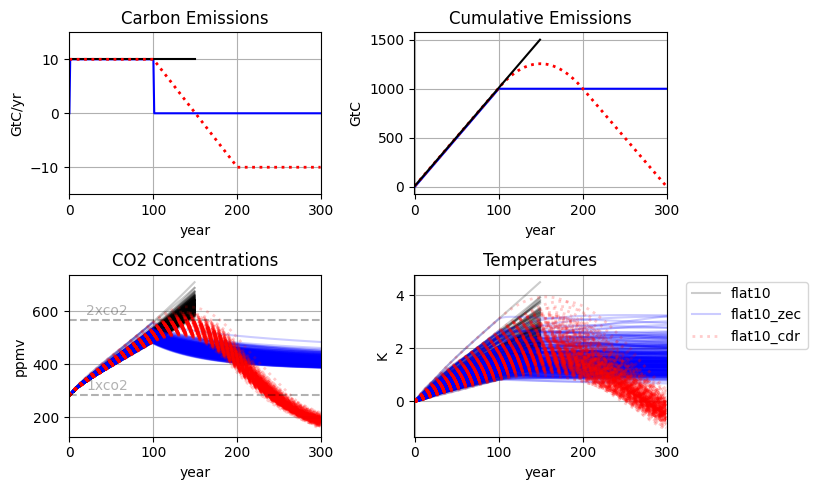
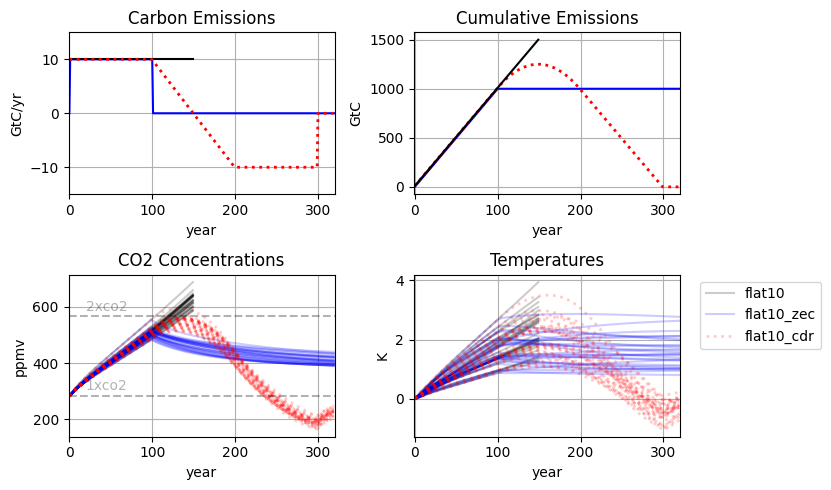
update text

diff --git a/index.html b/index.html
@@ -1,1 +1,1 @@
-<html><head><meta content="text/html; charset=UTF-8" http-equiv="content-type"><style type="text/css">@import url(https://themes.googleusercontent.com/fonts/css?kit=8apCgqRrTD4kFh3_sUrApkKKYS4hv_rnLQzFi6X1UhM);ul.lst-kix_y58jc7646uhq-1{list-style-type:none}ul.lst-kix_y58jc7646uhq-2{list-style-type:none}.lst-kix_y58jc7646uhq-5>li:before{content:"\0025a0   "}.lst-kix_y58jc7646uhq-6>li:before{content:"\0025cf   "}ul.lst-kix_y58jc7646uhq-3{list-style-type:none}ul.lst-kix_y58jc7646uhq-4{list-style-type:none}ul.lst-kix_y58jc7646uhq-5{list-style-type:none}.lst-kix_y58jc7646uhq-4>li:before{content:"\0025cb   "}ul.lst-kix_y58jc7646uhq-6{list-style-type:none}.lst-kix_y58jc7646uhq-8>li:before{content:"\0025a0   "}ul.lst-kix_y58jc7646uhq-7{list-style-type:none}ul.lst-kix_y58jc7646uhq-8{list-style-type:none}.lst-kix_y58jc7646uhq-1>li:before{content:"\0025cb   "}.lst-kix_y58jc7646uhq-2>li:before{content:"\0025a0   "}.lst-kix_mmzhid7z77ue-5>li{counter-increment:lst-ctn-kix_mmzhid7z77ue-5}.lst-kix_y58jc7646uhq-3>li:before{content:"\0025cf   "}ul.lst-kix_y58jc7646uhq-0{list-style-type:none}ul.lst-kix_6ljzh1hbeadp-6{list-style-type:none}ul.lst-kix_6ljzh1hbeadp-7{list-style-type:none}.lst-kix_mmzhid7z77ue-6>li{counter-increment:lst-ctn-kix_mmzhid7z77ue-6}ul.lst-kix_6ljzh1hbeadp-4{list-style-type:none}ul.lst-kix_6ljzh1hbeadp-5{list-style-type:none}ul.lst-kix_6ljzh1hbeadp-2{list-style-type:none}.lst-kix_y58jc7646uhq-0>li:before{content:"\0025cf   "}ul.lst-kix_6ljzh1hbeadp-3{list-style-type:none}ul.lst-kix_6ljzh1hbeadp-0{list-style-type:none}ul.lst-kix_6ljzh1hbeadp-1{list-style-type:none}.lst-kix_kae3z32vkf8l-0>li:before{content:"\0025cf   "}.lst-kix_kae3z32vkf8l-1>li:before{content:"\0025cb   "}.lst-kix_kae3z32vkf8l-2>li:before{content:"\0025a0   "}ul.lst-kix_6ljzh1hbeadp-8{list-style-type:none}.lst-kix_kae3z32vkf8l-3>li:before{content:"\0025cf   "}.lst-kix_kae3z32vkf8l-4>li:before{content:"\0025cb   "}.lst-kix_j3ee6vgrps1y-8>li:before{content:"\0025a0   "}ol.lst-kix_mmzhid7z77ue-7.start{counter-reset:lst-ctn-kix_mmzhid7z77ue-7 0}.lst-kix_mmzhid7z77ue-4>li{counter-increment:lst-ctn-kix_mmzhid7z77ue-4}.lst-kix_j3ee6vgrps1y-7>li:before{content:"\0025cb   "}ul.lst-kix_kae3z32vkf8l-0{list-style-type:none}.lst-kix_kae3z32vkf8l-7>li:before{content:"\0025cb   "}.lst-kix_kae3z32vkf8l-5>li:before{content:"\0025a0   "}.lst-kix_kae3z32vkf8l-6>li:before{content:"\0025cf   "}.lst-kix_mmzhid7z77ue-7>li{counter-increment:lst-ctn-kix_mmzhid7z77ue-7}.lst-kix_j3ee6vgrps1y-1>li:before{content:"\0025cb   "}.lst-kix_j3ee6vgrps1y-2>li:before{content:"\0025a0   "}.lst-kix_j3ee6vgrps1y-3>li:before{content:"\0025cf   "}ul.lst-kix_kae3z32vkf8l-2{list-style-type:none}.lst-kix_j3ee6vgrps1y-5>li:before{content:"\0025a0   "}ul.lst-kix_kae3z32vkf8l-1{list-style-type:none}.lst-kix_kae3z32vkf8l-8>li:before{content:"\0025a0   "}ul.lst-kix_kae3z32vkf8l-4{list-style-type:none}.lst-kix_j3ee6vgrps1y-4>li:before{content:"\0025cb   "}.lst-kix_j3ee6vgrps1y-6>li:before{content:"\0025cf   "}ul.lst-kix_kae3z32vkf8l-3{list-style-type:none}ul.lst-kix_kae3z32vkf8l-6{list-style-type:none}ul.lst-kix_kae3z32vkf8l-5{list-style-type:none}ul.lst-kix_kae3z32vkf8l-8{list-style-type:none}ul.lst-kix_kae3z32vkf8l-7{list-style-type:none}ul.lst-kix_o4ducqhc1uk8-1{list-style-type:none}ul.lst-kix_o4ducqhc1uk8-2{list-style-type:none}ul.lst-kix_o4ducqhc1uk8-3{list-style-type:none}ul.lst-kix_o4ducqhc1uk8-4{list-style-type:none}ul.lst-kix_o4ducqhc1uk8-5{list-style-type:none}ol.lst-kix_mmzhid7z77ue-1.start{counter-reset:lst-ctn-kix_mmzhid7z77ue-1 0}ul.lst-kix_o4ducqhc1uk8-6{list-style-type:none}ul.lst-kix_o4ducqhc1uk8-7{list-style-type:none}ul.lst-kix_o4ducqhc1uk8-8{list-style-type:none}ol.lst-kix_mmzhid7z77ue-8.start{counter-reset:lst-ctn-kix_mmzhid7z77ue-8 0}.lst-kix_61xg01pbauvu-0>li:before{content:"\0025cf   "}.lst-kix_61xg01pbauvu-1>li:before{content:"\0025cb   "}.lst-kix_61xg01pbauvu-2>li:before{content:"\0025a0   "}.lst-kix_61xg01pbauvu-3>li:before{content:"\0025cf   "}.lst-kix_61xg01pbauvu-4>li:before{content:"\0025cb   "}.lst-kix_yrp2nua4jaon-5>li:before{content:"-  "}.lst-kix_mmzhid7z77ue-3>li{counter-increment:lst-ctn-kix_mmzhid7z77ue-3}ul.lst-kix_o4ducqhc1uk8-0{list-style-type:none}.lst-kix_61xg01pbauvu-7>li:before{content:"\0025cb   "}.lst-kix_61xg01pbauvu-8>li:before{content:"\0025a0   "}ul.lst-kix_yrp2nua4jaon-0{list-style-type:none}.lst-kix_o4ducqhc1uk8-6>li:before{content:"-  "}.lst-kix_o4ducqhc1uk8-8>li:before{content:"-  "}ul.lst-kix_yrp2nua4jaon-1{list-style-type:none}ul.lst-kix_yrp2nua4jaon-2{list-style-type:none}ul.lst-kix_yrp2nua4jaon-3{list-style-type:none}.lst-kix_yrp2nua4jaon-4>li:before{content:"-  "}.lst-kix_61xg01pbauvu-5>li:before{content:"\0025a0   "}.lst-kix_61xg01pbauvu-6>li:before{content:"\0025cf   "}ul.lst-kix_yrp2nua4jaon-4{list-style-type:none}.lst-kix_o4ducqhc1uk8-5>li:before{content:"-  "}ul.lst-kix_yrp2nua4jaon-5{list-style-type:none}.lst-kix_yrp2nua4jaon-2>li:before{content:"-  "}.lst-kix_yrp2nua4jaon-3>li:before{content:"-  "}.lst-kix_yrp2nua4jaon-1>li:before{content:"-  "}.lst-kix_o4ducqhc1uk8-7>li:before{content:"-  "}.lst-kix_yrp2nua4jaon-0>li:before{content:"-  "}ul.lst-kix_yrp2nua4jaon-6{list-style-type:none}ul.lst-kix_yrp2nua4jaon-7{list-style-type:none}ul.lst-kix_yrp2nua4jaon-8{list-style-type:none}.lst-kix_y58jc7646uhq-7>li:before{content:"\0025cb   "}ol.lst-kix_mmzhid7z77ue-2.start{counter-reset:lst-ctn-kix_mmzhid7z77ue-2 0}ol.lst-kix_mmzhid7z77ue-6.start{counter-reset:lst-ctn-kix_mmzhid7z77ue-6 0}ul.lst-kix_ycsqwkxglkdi-1{list-style-type:none}ul.lst-kix_ycsqwkxglkdi-0{list-style-type:none}.lst-kix_o4ducqhc1uk8-0>li:before{content:"-  "}.lst-kix_6ljzh1hbeadp-0>li:before{content:"  "}.lst-kix_mmzhid7z77ue-0>li{counter-increment:lst-ctn-kix_mmzhid7z77ue-0}ol.lst-kix_mmzhid7z77ue-3.start{counter-reset:lst-ctn-kix_mmzhid7z77ue-3 0}.lst-kix_o4ducqhc1uk8-1>li:before{content:"-  "}.lst-kix_6ljzh1hbeadp-2>li:before{content:"\0025a0   "}ul.lst-kix_ycsqwkxglkdi-5{list-style-type:none}ul.lst-kix_ycsqwkxglkdi-4{list-style-type:none}.lst-kix_6ljzh1hbeadp-1>li:before{content:"\0025cb   "}.lst-kix_6ljzh1hbeadp-3>li:before{content:"\0025cf   "}ul.lst-kix_ycsqwkxglkdi-3{list-style-type:none}.lst-kix_o4ducqhc1uk8-2>li:before{content:"-  "}.lst-kix_o4ducqhc1uk8-4>li:before{content:"-  "}ul.lst-kix_ycsqwkxglkdi-2{list-style-type:none}ul.lst-kix_ycsqwkxglkdi-8{list-style-type:none}ul.lst-kix_ycsqwkxglkdi-7{list-style-type:none}.lst-kix_o4ducqhc1uk8-3>li:before{content:"-  "}ul.lst-kix_ycsqwkxglkdi-6{list-style-type:none}.lst-kix_yrp2nua4jaon-6>li:before{content:"-  "}.lst-kix_yrp2nua4jaon-7>li:before{content:"-  "}ol.lst-kix_mmzhid7z77ue-0{list-style-type:none}ol.lst-kix_mmzhid7z77ue-0.start{counter-reset:lst-ctn-kix_mmzhid7z77ue-0 0}ol.lst-kix_mmzhid7z77ue-1{list-style-type:none}.lst-kix_mmzhid7z77ue-1>li{counter-increment:lst-ctn-kix_mmzhid7z77ue-1}ol.lst-kix_mmzhid7z77ue-2{list-style-type:none}.lst-kix_yrp2nua4jaon-8>li:before{content:"-  "}ul.lst-kix_61xg01pbauvu-2{list-style-type:none}ol.lst-kix_mmzhid7z77ue-7{list-style-type:none}ul.lst-kix_61xg01pbauvu-1{list-style-type:none}ol.lst-kix_mmzhid7z77ue-8{list-style-type:none}ul.lst-kix_61xg01pbauvu-4{list-style-type:none}ul.lst-kix_61xg01pbauvu-3{list-style-type:none}ul.lst-kix_61xg01pbauvu-6{list-style-type:none}ol.lst-kix_mmzhid7z77ue-3{list-style-type:none}ul.lst-kix_61xg01pbauvu-5{list-style-type:none}ol.lst-kix_mmzhid7z77ue-4{list-style-type:none}ul.lst-kix_61xg01pbauvu-8{list-style-type:none}ol.lst-kix_mmzhid7z77ue-5{list-style-type:none}ul.lst-kix_61xg01pbauvu-7{list-style-type:none}ol.lst-kix_mmzhid7z77ue-6{list-style-type:none}ul.lst-kix_61xg01pbauvu-0{list-style-type:none}.lst-kix_mmzhid7z77ue-7>li:before{content:"" counter(lst-ctn-kix_mmzhid7z77ue-7,lower-latin) ". "}.lst-kix_mmzhid7z77ue-8>li:before{content:"" counter(lst-ctn-kix_mmzhid7z77ue-8,lower-roman) ". "}.lst-kix_mmzhid7z77ue-2>li{counter-increment:lst-ctn-kix_mmzhid7z77ue-2}.lst-kix_mmzhid7z77ue-3>li:before{content:"" counter(lst-ctn-kix_mmzhid7z77ue-3,decimal) ". "}ol.lst-kix_mmzhid7z77ue-4.start{counter-reset:lst-ctn-kix_mmzhid7z77ue-4 0}.lst-kix_mmzhid7z77ue-1>li:before{content:"" counter(lst-ctn-kix_mmzhid7z77ue-1,lower-latin) ". "}.lst-kix_mmzhid7z77ue-2>li:before{content:"" counter(lst-ctn-kix_mmzhid7z77ue-2,lower-roman) ". "}ul.lst-kix_j3ee6vgrps1y-6{list-style-type:none}ul.lst-kix_j3ee6vgrps1y-7{list-style-type:none}.lst-kix_j3ee6vgrps1y-0>li:before{content:"\0025cf   "}ul.lst-kix_j3ee6vgrps1y-8{list-style-type:none}ul.lst-kix_j3ee6vgrps1y-2{list-style-type:none}ul.lst-kix_j3ee6vgrps1y-3{list-style-type:none}ul.lst-kix_j3ee6vgrps1y-4{list-style-type:none}ul.lst-kix_j3ee6vgrps1y-5{list-style-type:none}.lst-kix_mmzhid7z77ue-4>li:before{content:"" counter(lst-ctn-kix_mmzhid7z77ue-4,lower-latin) ". "}.lst-kix_mmzhid7z77ue-5>li:before{content:"" counter(lst-ctn-kix_mmzhid7z77ue-5,lower-roman) ". "}.lst-kix_mmzhid7z77ue-6>li:before{content:"" counter(lst-ctn-kix_mmzhid7z77ue-6,decimal) ". "}.lst-kix_ycsqwkxglkdi-0>li:before{content:"\0025cf   "}.lst-kix_6ljzh1hbeadp-6>li:before{content:"\0025cf   "}.lst-kix_6ljzh1hbeadp-5>li:before{content:"\0025a0   "}.lst-kix_6ljzh1hbeadp-7>li:before{content:"\0025cb   "}.lst-kix_6ljzh1hbeadp-4>li:before{content:"\0025cb   "}.lst-kix_6ljzh1hbeadp-8>li:before{content:"\0025a0   "}.lst-kix_ycsqwkxglkdi-1>li:before{content:"\0025cb   "}ol.lst-kix_mmzhid7z77ue-5.start{counter-reset:lst-ctn-kix_mmzhid7z77ue-5 0}.lst-kix_ycsqwkxglkdi-2>li:before{content:"\0025a0   "}.lst-kix_ycsqwkxglkdi-3>li:before{content:"\0025cf   "}ul.lst-kix_j3ee6vgrps1y-0{list-style-type:none}ul.lst-kix_j3ee6vgrps1y-1{list-style-type:none}.lst-kix_ycsqwkxglkdi-4>li:before{content:"\0025cb   "}li.li-bullet-0:before{margin-left:-18pt;white-space:nowrap;display:inline-block;min-width:18pt}.lst-kix_mmzhid7z77ue-0>li:before{content:"" counter(lst-ctn-kix_mmzhid7z77ue-0,decimal) ". "}.lst-kix_ycsqwkxglkdi-6>li:before{content:"\0025cf   "}.lst-kix_ycsqwkxglkdi-7>li:before{content:"\0025cb   "}.lst-kix_ycsqwkxglkdi-5>li:before{content:"\0025a0   "}.lst-kix_mmzhid7z77ue-8>li{counter-increment:lst-ctn-kix_mmzhid7z77ue-8}.lst-kix_ycsqwkxglkdi-8>li:before{content:"\0025a0   "}ol{margin:0;padding:0}table td,table th{padding:0}.c4{border-right-style:solid;padding:5pt 5pt 5pt 5pt;border-bottom-color:#000000;border-top-width:1pt;border-right-width:1pt;border-left-color:#000000;vertical-align:top;border-right-color:#000000;border-left-width:1pt;border-top-style:solid;border-left-style:solid;border-bottom-width:1pt;width:468pt;border-top-color:#000000;border-bottom-style:solid}.c7{border-right-style:solid;padding:5pt 5pt 5pt 5pt;border-bottom-color:#000000;border-top-width:1pt;border-right-width:1pt;border-left-color:#000000;vertical-align:top;border-right-color:#000000;border-left-width:1pt;border-top-style:solid;border-left-style:solid;border-bottom-width:1pt;width:75pt;border-top-color:#000000;border-bottom-style:solid}.c9{border-right-style:solid;padding:5pt 5pt 5pt 5pt;border-bottom-color:#000000;border-top-width:1pt;border-right-width:1pt;border-left-color:#000000;vertical-align:top;border-right-color:#000000;border-left-width:1pt;border-top-style:solid;border-left-style:solid;border-bottom-width:1pt;width:116.2pt;border-top-color:#000000;border-bottom-style:solid}.c8{border-right-style:solid;padding:5pt 5pt 5pt 5pt;border-bottom-color:#000000;border-top-width:1pt;border-right-width:1pt;border-left-color:#000000;vertical-align:top;border-right-color:#000000;border-left-width:1pt;border-top-style:solid;border-left-style:solid;border-bottom-width:1pt;width:90pt;border-top-color:#000000;border-bottom-style:solid}.c18{border-right-style:solid;padding:5pt 5pt 5pt 5pt;border-bottom-color:#000000;border-top-width:1pt;border-right-width:1pt;border-left-color:#000000;vertical-align:top;border-right-color:#000000;border-left-width:1pt;border-top-style:solid;border-left-style:solid;border-bottom-width:1pt;width:105.8pt;border-top-color:#000000;border-bottom-style:solid}.c15{border-right-style:solid;padding:5pt 5pt 5pt 5pt;border-bottom-color:#000000;border-top-width:1pt;border-right-width:1pt;border-left-color:#000000;vertical-align:top;border-right-color:#000000;border-left-width:1pt;border-top-style:solid;border-left-style:solid;border-bottom-width:1pt;width:81pt;border-top-color:#000000;border-bottom-style:solid}.c24{margin-left:-11pt;padding-top:15pt;padding-bottom:6pt;line-height:1.15;page-break-after:avoid;orphans:2;widows:2;text-align:left;margin-right:-11pt}.c23{margin-left:-11pt;padding-top:15pt;padding-bottom:0pt;line-height:1.15;page-break-after:avoid;orphans:2;widows:2;text-align:left;margin-right:-11pt}.c6{margin-left:36pt;padding-top:0pt;padding-left:0pt;padding-bottom:10pt;line-height:1.15;orphans:2;widows:2;text-align:left}.c13{margin-left:-11pt;padding-top:0pt;padding-bottom:8pt;line-height:1.15;orphans:2;widows:2;text-align:left;margin-right:-11pt}.c17{color:#000000;font-weight:400;text-decoration:none;vertical-align:baseline;font-size:11pt;font-family:"Average";font-style:italic}.c11{padding-top:0pt;padding-bottom:0pt;line-height:1.15;orphans:2;widows:2;text-align:left;height:11pt}.c1{color:#000000;font-weight:400;text-decoration:none;vertical-align:baseline;font-size:11pt;font-family:"Average";font-style:normal}.c26{color:#000000;font-weight:400;text-decoration:none;vertical-align:baseline;font-size:16pt;font-family:"Arial";font-style:normal}.c22{padding-top:20pt;padding-bottom:6pt;line-height:1.15;page-break-after:avoid;orphans:2;widows:2;text-align:left}.c16{color:#000000;font-weight:700;text-decoration:none;vertical-align:baseline;font-size:11pt;font-family:"Average";font-style:normal}.c14{color:#000000;font-weight:400;text-decoration:none;vertical-align:baseline;font-size:11pt;font-family:"Arial";font-style:normal}.c27{padding-top:0pt;padding-bottom:0pt;line-height:1.15;orphans:2;widows:2;text-align:left}.c29{font-weight:400;text-decoration:none;vertical-align:baseline;font-size:11pt;font-family:"Arial";font-style:normal}.c28{font-weight:700;text-decoration:none;vertical-align:baseline;font-size:27pt;font-family:"Arial";font-style:normal}.c31{border-spacing:0;border-collapse:collapse;margin-right:auto}.c10{text-decoration-skip-ink:none;-webkit-text-decoration-skip:none;color:#1155cc;text-decoration:underline}.c0{padding-top:0pt;padding-bottom:0pt;line-height:1.0;text-align:left}.c30{background-color:#ffffff;max-width:468pt;padding:72pt 72pt 72pt 72pt}.c21{font-weight:400;font-family:"Average";font-style:italic}.c20{padding:0;margin:0}.c19{margin-left:36pt;padding-left:0pt}.c5{color:inherit;text-decoration:inherit}.c2{height:0pt}.c12{height:11pt}.c25{color:#5a5a5a}.c3{height:21pt}.title{padding-top:0pt;color:#000000;font-size:26pt;padding-bottom:3pt;font-family:"Arial";line-height:1.15;page-break-after:avoid;orphans:2;widows:2;text-align:left}.subtitle{padding-top:0pt;color:#666666;font-size:15pt;padding-bottom:16pt;font-family:"Arial";line-height:1.15;page-break-after:avoid;orphans:2;widows:2;text-align:left}li{color:#000000;font-size:11pt;font-family:"Arial"}p{margin:0;color:#000000;font-size:11pt;font-family:"Arial"}h1{padding-top:20pt;color:#000000;font-size:20pt;padding-bottom:6pt;font-family:"Arial";line-height:1.15;page-break-after:avoid;orphans:2;widows:2;text-align:left}h2{padding-top:18pt;color:#000000;font-size:16pt;padding-bottom:6pt;font-family:"Arial";line-height:1.15;page-break-after:avoid;orphans:2;widows:2;text-align:left}h3{padding-top:16pt;color:#434343;font-size:14pt;padding-bottom:4pt;font-family:"Arial";line-height:1.15;page-break-after:avoid;orphans:2;widows:2;text-align:left}h4{padding-top:14pt;color:#666666;font-size:12pt;padding-bottom:4pt;font-family:"Arial";line-height:1.15;page-break-after:avoid;orphans:2;widows:2;text-align:left}h5{padding-top:12pt;color:#666666;font-size:11pt;padding-bottom:4pt;font-family:"Arial";line-height:1.15;page-break-after:avoid;orphans:2;widows:2;text-align:left}h6{padding-top:12pt;color:#666666;font-size:11pt;padding-bottom:4pt;font-family:"Arial";line-height:1.15;page-break-after:avoid;font-style:italic;orphans:2;widows:2;text-align:left}</style></head><body class="c30 doc-content"><h1 class="c23" id="h.jl6rd243xrf0"><span class="c25 c28">ESM-DECK trials protocol</span></h1><h2 class="c24" id="h.k1qmily3qwgs"><span class="c26">Emission data</span></h2><p class="c13"><span>CO2 </span><span class="c10"><a class="c5" href="https://www.google.com/url?q=https://benmsanderson.github.io/esm-deck/flat10.csv&amp;sa=D&amp;source=editors&amp;ust=1695333405123875&amp;usg=AOvVaw3HDjI9auggOB7VpDs2Klmo">emissions data</a></span><span class="c29 c25">&nbsp;for flat10</span></p><p class="c13"><span class="c25">CO2 </span><span class="c10"><a class="c5" href="https://www.google.com/url?q=https://benmsanderson.github.io/esm-deck/flat10_zec.csv&amp;sa=D&amp;source=editors&amp;ust=1695333405124197&amp;usg=AOvVaw0P1H9qtLJt-k1mS6sjCJqo">emissions data</a></span><span class="c25 c29">&nbsp;for flat10_zec</span></p><p class="c13"><span class="c25">CO2 </span><span class="c10"><a class="c5" href="https://www.google.com/url?q=https://benmsanderson.github.io/esm-deck/flat10_cdr.csv&amp;sa=D&amp;source=editors&amp;ust=1695333405124410&amp;usg=AOvVaw1pypwz2yg5NvR1RrqvSHh9">emissions data</a></span><span class="c29 c25">&nbsp;for flat10_cdr</span></p><p class="c13"><span class="c10"><a class="c5" href="https://www.google.com/url?q=https://benmsanderson.github.io/esm-deck/flat10_protocol.pdf&amp;sa=D&amp;source=editors&amp;ust=1695333405124608&amp;usg=AOvVaw0MvtQbfod7mYbZpDPSWhvv">Full Protocol explainer</a></span></p><p class="c11"><span class="c14"></span></p><ul class="c20 lst-kix_kae3z32vkf8l-0 start"><li class="c6 li-bullet-0"><span class="c14">We request a set of 3 emissions-driven experiments to assess TCRE, ZEC and climate reversibility under an idealized net zero transition</span></li><li class="c6 li-bullet-0"><span>All experiments branch from the DECK experiment </span><span class="c10"><a class="c5" href="https://www.google.com/url?q=https://view.es-doc.org/?renderMethod%3Dname%26project%3Dcmip6%26type%3Dcim.2.designing.NumericalExperiment%26client%3Desdoc-url-rewrite%26name%3Desm-picontrol&amp;sa=D&amp;source=editors&amp;ust=1695333405125018&amp;usg=AOvVaw1R2OaI6etDVpGzIyVmCaps">esm-picontrol</a></span><span class="c14">, with an identical data request.</span></li><li class="c6 li-bullet-0"><span class="c14">Experiments will be proposed as candidates for the CMIP7 ESM-DECK</span></li><li class="c6 li-bullet-0"><span class="c14">If not included in the DECK, experiments will be proposed as part of a CMIP7 C4MIP/ZECMIP/CDRMIP effort</span></li><li class="c6 li-bullet-0"><span>In any case, participating model groups will be offered co-authorship on a manuscript documenting the experiments</span></li></ul><h2 class="c24" id="h.da5bwvdg9n1h"><span class="c26">Experiment tiers</span></h2><p class="c11"><span class="c1"></span></p><a id="t.19c26d9bb51319a0e3ce243e03819c5d1e916f31"></a><a id="t.0"></a><table class="c31"><tr class="c2"><td class="c8" colspan="1" rowspan="1"><p class="c0"><span class="c17">Experiment</span></p></td><td class="c7" colspan="1" rowspan="1"><p class="c0"><span class="c17">Branches from</span></p></td><td class="c15" colspan="1" rowspan="1"><p class="c0"><span class="c17">Years</span></p></td><td class="c9" colspan="1" rowspan="1"><p class="c0"><span class="c17">emissions</span></p></td><td class="c18" colspan="1" rowspan="1"><p class="c0"><span class="c17">Metrics</span></p></td></tr><tr class="c3"><td class="c4" colspan="5" rowspan="1"><p class="c0"><span class="c16">Tier 1 (high priority) experiments</span></p></td></tr><tr class="c2"><td class="c8" colspan="1" rowspan="1"><p class="c0"><span class="c1">esm-flat10</span></p></td><td class="c7" colspan="1" rowspan="1"><p class="c0"><span class="c1">esm-pictrl</span></p></td><td class="c15" colspan="1" rowspan="1"><p class="c0"><span class="c1">150 years (From year 0 to year 150)</span></p></td><td class="c9" colspan="1" rowspan="1"><p class="c0"><span class="c1">10GtC/year constant emissions, globally homogenous flux</span></p></td><td class="c18" colspan="1" rowspan="1"><p class="c0"><span class="c1">TCRE</span></p></td></tr><tr class="c2"><td class="c8" colspan="1" rowspan="1"><p class="c0"><span class="c1">esm-flat10_zec</span></p></td><td class="c7" colspan="1" rowspan="1"><p class="c0"><span class="c1">esm-flat10 (branch year 100)</span></p></td><td class="c15" colspan="1" rowspan="1"><p class="c0"><span class="c1">210 years (From year 100 to year 310)</span></p></td><td class="c9" colspan="1" rowspan="1"><p class="c0"><span class="c1">0 GtC/yr constant</span></p></td><td class="c18" colspan="1" rowspan="1"><p class="c0"><span class="c1">ZEC50</span></p><p class="c0"><span class="c1">ZEC100</span></p><p class="c0"><span class="c1">ZEC200</span></p></td></tr><tr class="c3"><td class="c4" colspan="5" rowspan="1"><p class="c0"><span class="c16">Tier 2 (lower priority) experiments</span></p></td></tr><tr class="c2"><td class="c8" colspan="1" rowspan="1"><p class="c0"><span class="c1">esm-flat10_cdr</span></p></td><td class="c7" colspan="1" rowspan="1"><p class="c0"><span class="c1">esm-flat10 (branch year 100)</span></p></td><td class="c15" colspan="1" rowspan="1"><p class="c0"><span class="c1">210 years (From year 100 to year 310)</span></p></td><td class="c9" colspan="1" rowspan="1"><ul class="c20 lst-kix_o4ducqhc1uk8-0 start"><li class="c0 c19 li-bullet-0"><span class="c1">Linearly declining emissions by 2GtC/decade from 10GtC/yr (year 100) to -10GtC/Yr (year 200)</span></li><li class="c0 c19 li-bullet-0"><span class="c1">Constant -10GtC/yr (years 200-300)</span></li><li class="c0 c19 li-bullet-0"><span class="c1">Zero emissions for year 300+ (optional)</span></li></ul></td><td class="c18" colspan="1" rowspan="1"><p class="c0"><span class="c1">TNZ, TR1000,TR0 (see last section)</span></p></td></tr></table><p class="c11"><span class="c14"></span></p><h1 class="c22" id="h.c2aa85tgr8m5"><span style="overflow: hidden; display: inline-block; margin: 0.00px 0.00px; border: 0.00px solid #000000; transform: rotate(0.00rad) translateZ(0px); -webkit-transform: rotate(0.00rad) translateZ(0px); width: 624.00px; height: 374.67px;"><img alt="" src="images/image1.png" style="width: 624.00px; height: 374.67px; margin-left: 0.00px; margin-top: 0.00px; transform: rotate(0.00rad) translateZ(0px); -webkit-transform: rotate(0.00rad) translateZ(0px);" title=""></span></h1><p class="c27"><span class="c21">Figure 1: emissions, cumulative emissions, CO2 concentrations and Global Mean temperatures in the 4 proposed experiments (flat10, flat10_zec and flat10_cdr) as simulated in a perturbed ensemble of the simple climate model </span><span class="c10 c21"><a class="c5" href="https://www.google.com/url?q=https://github.com/OMS-NetZero/FAIR&amp;sa=D&amp;source=editors&amp;ust=1695333405133313&amp;usg=AOvVaw1-v2L8AlyaLSdlw9mhxEvP">FaIR</a></span><span class="c21">. &nbsp;Tier 1 experiments have solid lines, while tier 2 experiments are dotted.</span></p></body></html>
+<html><head><meta content="text/html; charset=UTF-8" http-equiv="content-type"><style type="text/css">@import url(https://themes.googleusercontent.com/fonts/css?kit=8apCgqRrTD4kFh3_sUrApkKKYS4hv_rnLQzFi6X1UhM);ul.lst-kix_y58jc7646uhq-1{list-style-type:none}ul.lst-kix_y58jc7646uhq-2{list-style-type:none}.lst-kix_y58jc7646uhq-5>li:before{content:"\0025a0   "}.lst-kix_y58jc7646uhq-6>li:before{content:"\0025cf   "}ul.lst-kix_y58jc7646uhq-3{list-style-type:none}ul.lst-kix_y58jc7646uhq-4{list-style-type:none}ul.lst-kix_y58jc7646uhq-5{list-style-type:none}.lst-kix_y58jc7646uhq-4>li:before{content:"\0025cb   "}ul.lst-kix_y58jc7646uhq-6{list-style-type:none}.lst-kix_y58jc7646uhq-8>li:before{content:"\0025a0   "}ul.lst-kix_y58jc7646uhq-7{list-style-type:none}ul.lst-kix_y58jc7646uhq-8{list-style-type:none}.lst-kix_y58jc7646uhq-1>li:before{content:"\0025cb   "}.lst-kix_y58jc7646uhq-2>li:before{content:"\0025a0   "}.lst-kix_mmzhid7z77ue-5>li{counter-increment:lst-ctn-kix_mmzhid7z77ue-5}.lst-kix_y58jc7646uhq-3>li:before{content:"\0025cf   "}ul.lst-kix_y58jc7646uhq-0{list-style-type:none}ul.lst-kix_6ljzh1hbeadp-6{list-style-type:none}ul.lst-kix_6ljzh1hbeadp-7{list-style-type:none}.lst-kix_mmzhid7z77ue-6>li{counter-increment:lst-ctn-kix_mmzhid7z77ue-6}ul.lst-kix_6ljzh1hbeadp-4{list-style-type:none}ul.lst-kix_6ljzh1hbeadp-5{list-style-type:none}ul.lst-kix_6ljzh1hbeadp-2{list-style-type:none}.lst-kix_y58jc7646uhq-0>li:before{content:"\0025cf   "}ul.lst-kix_6ljzh1hbeadp-3{list-style-type:none}ul.lst-kix_6ljzh1hbeadp-0{list-style-type:none}ul.lst-kix_6ljzh1hbeadp-1{list-style-type:none}.lst-kix_kae3z32vkf8l-0>li:before{content:"\0025cf   "}.lst-kix_kae3z32vkf8l-1>li:before{content:"\0025cb   "}.lst-kix_kae3z32vkf8l-2>li:before{content:"\0025a0   "}ul.lst-kix_6ljzh1hbeadp-8{list-style-type:none}.lst-kix_kae3z32vkf8l-3>li:before{content:"\0025cf   "}.lst-kix_kae3z32vkf8l-4>li:before{content:"\0025cb   "}.lst-kix_j3ee6vgrps1y-8>li:before{content:"\0025a0   "}ol.lst-kix_mmzhid7z77ue-7.start{counter-reset:lst-ctn-kix_mmzhid7z77ue-7 0}.lst-kix_mmzhid7z77ue-4>li{counter-increment:lst-ctn-kix_mmzhid7z77ue-4}.lst-kix_j3ee6vgrps1y-7>li:before{content:"\0025cb   "}ul.lst-kix_kae3z32vkf8l-0{list-style-type:none}.lst-kix_kae3z32vkf8l-7>li:before{content:"\0025cb   "}.lst-kix_kae3z32vkf8l-5>li:before{content:"\0025a0   "}.lst-kix_kae3z32vkf8l-6>li:before{content:"\0025cf   "}.lst-kix_mmzhid7z77ue-7>li{counter-increment:lst-ctn-kix_mmzhid7z77ue-7}.lst-kix_j3ee6vgrps1y-1>li:before{content:"\0025cb   "}.lst-kix_j3ee6vgrps1y-2>li:before{content:"\0025a0   "}.lst-kix_j3ee6vgrps1y-3>li:before{content:"\0025cf   "}ul.lst-kix_kae3z32vkf8l-2{list-style-type:none}.lst-kix_j3ee6vgrps1y-5>li:before{content:"\0025a0   "}ul.lst-kix_kae3z32vkf8l-1{list-style-type:none}.lst-kix_kae3z32vkf8l-8>li:before{content:"\0025a0   "}ul.lst-kix_kae3z32vkf8l-4{list-style-type:none}.lst-kix_j3ee6vgrps1y-4>li:before{content:"\0025cb   "}.lst-kix_j3ee6vgrps1y-6>li:before{content:"\0025cf   "}ul.lst-kix_kae3z32vkf8l-3{list-style-type:none}ul.lst-kix_kae3z32vkf8l-6{list-style-type:none}ul.lst-kix_kae3z32vkf8l-5{list-style-type:none}ul.lst-kix_kae3z32vkf8l-8{list-style-type:none}ul.lst-kix_kae3z32vkf8l-7{list-style-type:none}ul.lst-kix_o4ducqhc1uk8-1{list-style-type:none}ul.lst-kix_o4ducqhc1uk8-2{list-style-type:none}ul.lst-kix_o4ducqhc1uk8-3{list-style-type:none}ul.lst-kix_o4ducqhc1uk8-4{list-style-type:none}ul.lst-kix_o4ducqhc1uk8-5{list-style-type:none}ol.lst-kix_mmzhid7z77ue-1.start{counter-reset:lst-ctn-kix_mmzhid7z77ue-1 0}ul.lst-kix_o4ducqhc1uk8-6{list-style-type:none}ul.lst-kix_o4ducqhc1uk8-7{list-style-type:none}ul.lst-kix_o4ducqhc1uk8-8{list-style-type:none}ol.lst-kix_mmzhid7z77ue-8.start{counter-reset:lst-ctn-kix_mmzhid7z77ue-8 0}.lst-kix_61xg01pbauvu-0>li:before{content:"\0025cf   "}.lst-kix_61xg01pbauvu-1>li:before{content:"\0025cb   "}.lst-kix_61xg01pbauvu-2>li:before{content:"\0025a0   "}.lst-kix_61xg01pbauvu-3>li:before{content:"\0025cf   "}.lst-kix_61xg01pbauvu-4>li:before{content:"\0025cb   "}.lst-kix_yrp2nua4jaon-5>li:before{content:"-  "}.lst-kix_mmzhid7z77ue-3>li{counter-increment:lst-ctn-kix_mmzhid7z77ue-3}ul.lst-kix_o4ducqhc1uk8-0{list-style-type:none}.lst-kix_61xg01pbauvu-7>li:before{content:"\0025cb   "}.lst-kix_61xg01pbauvu-8>li:before{content:"\0025a0   "}ul.lst-kix_yrp2nua4jaon-0{list-style-type:none}.lst-kix_o4ducqhc1uk8-6>li:before{content:"-  "}.lst-kix_o4ducqhc1uk8-8>li:before{content:"-  "}ul.lst-kix_yrp2nua4jaon-1{list-style-type:none}ul.lst-kix_yrp2nua4jaon-2{list-style-type:none}ul.lst-kix_yrp2nua4jaon-3{list-style-type:none}.lst-kix_yrp2nua4jaon-4>li:before{content:"-  "}.lst-kix_61xg01pbauvu-5>li:before{content:"\0025a0   "}.lst-kix_61xg01pbauvu-6>li:before{content:"\0025cf   "}ul.lst-kix_yrp2nua4jaon-4{list-style-type:none}.lst-kix_o4ducqhc1uk8-5>li:before{content:"-  "}ul.lst-kix_yrp2nua4jaon-5{list-style-type:none}.lst-kix_yrp2nua4jaon-2>li:before{content:"-  "}.lst-kix_yrp2nua4jaon-3>li:before{content:"-  "}.lst-kix_yrp2nua4jaon-1>li:before{content:"-  "}.lst-kix_o4ducqhc1uk8-7>li:before{content:"-  "}.lst-kix_yrp2nua4jaon-0>li:before{content:"-  "}ul.lst-kix_yrp2nua4jaon-6{list-style-type:none}ul.lst-kix_yrp2nua4jaon-7{list-style-type:none}ul.lst-kix_yrp2nua4jaon-8{list-style-type:none}.lst-kix_y58jc7646uhq-7>li:before{content:"\0025cb   "}ol.lst-kix_mmzhid7z77ue-2.start{counter-reset:lst-ctn-kix_mmzhid7z77ue-2 0}ol.lst-kix_mmzhid7z77ue-6.start{counter-reset:lst-ctn-kix_mmzhid7z77ue-6 0}ul.lst-kix_ycsqwkxglkdi-1{list-style-type:none}ul.lst-kix_ycsqwkxglkdi-0{list-style-type:none}.lst-kix_o4ducqhc1uk8-0>li:before{content:"-  "}.lst-kix_6ljzh1hbeadp-0>li:before{content:"  "}.lst-kix_mmzhid7z77ue-0>li{counter-increment:lst-ctn-kix_mmzhid7z77ue-0}ol.lst-kix_mmzhid7z77ue-3.start{counter-reset:lst-ctn-kix_mmzhid7z77ue-3 0}.lst-kix_o4ducqhc1uk8-1>li:before{content:"-  "}.lst-kix_6ljzh1hbeadp-2>li:before{content:"\0025a0   "}ul.lst-kix_ycsqwkxglkdi-5{list-style-type:none}ul.lst-kix_ycsqwkxglkdi-4{list-style-type:none}.lst-kix_6ljzh1hbeadp-1>li:before{content:"\0025cb   "}.lst-kix_6ljzh1hbeadp-3>li:before{content:"\0025cf   "}ul.lst-kix_ycsqwkxglkdi-3{list-style-type:none}.lst-kix_o4ducqhc1uk8-2>li:before{content:"-  "}.lst-kix_o4ducqhc1uk8-4>li:before{content:"-  "}ul.lst-kix_ycsqwkxglkdi-2{list-style-type:none}ul.lst-kix_ycsqwkxglkdi-8{list-style-type:none}ul.lst-kix_ycsqwkxglkdi-7{list-style-type:none}.lst-kix_o4ducqhc1uk8-3>li:before{content:"-  "}ul.lst-kix_ycsqwkxglkdi-6{list-style-type:none}.lst-kix_yrp2nua4jaon-6>li:before{content:"-  "}.lst-kix_yrp2nua4jaon-7>li:before{content:"-  "}ol.lst-kix_mmzhid7z77ue-0{list-style-type:none}ol.lst-kix_mmzhid7z77ue-0.start{counter-reset:lst-ctn-kix_mmzhid7z77ue-0 0}ol.lst-kix_mmzhid7z77ue-1{list-style-type:none}.lst-kix_mmzhid7z77ue-1>li{counter-increment:lst-ctn-kix_mmzhid7z77ue-1}ol.lst-kix_mmzhid7z77ue-2{list-style-type:none}.lst-kix_yrp2nua4jaon-8>li:before{content:"-  "}ul.lst-kix_61xg01pbauvu-2{list-style-type:none}ol.lst-kix_mmzhid7z77ue-7{list-style-type:none}ul.lst-kix_61xg01pbauvu-1{list-style-type:none}ol.lst-kix_mmzhid7z77ue-8{list-style-type:none}ul.lst-kix_61xg01pbauvu-4{list-style-type:none}ul.lst-kix_61xg01pbauvu-3{list-style-type:none}ul.lst-kix_61xg01pbauvu-6{list-style-type:none}ol.lst-kix_mmzhid7z77ue-3{list-style-type:none}ul.lst-kix_61xg01pbauvu-5{list-style-type:none}ol.lst-kix_mmzhid7z77ue-4{list-style-type:none}ul.lst-kix_61xg01pbauvu-8{list-style-type:none}ol.lst-kix_mmzhid7z77ue-5{list-style-type:none}ul.lst-kix_61xg01pbauvu-7{list-style-type:none}ol.lst-kix_mmzhid7z77ue-6{list-style-type:none}ul.lst-kix_61xg01pbauvu-0{list-style-type:none}.lst-kix_mmzhid7z77ue-7>li:before{content:"" counter(lst-ctn-kix_mmzhid7z77ue-7,lower-latin) ". "}.lst-kix_mmzhid7z77ue-8>li:before{content:"" counter(lst-ctn-kix_mmzhid7z77ue-8,lower-roman) ". "}.lst-kix_mmzhid7z77ue-2>li{counter-increment:lst-ctn-kix_mmzhid7z77ue-2}.lst-kix_mmzhid7z77ue-3>li:before{content:"" counter(lst-ctn-kix_mmzhid7z77ue-3,decimal) ". "}ol.lst-kix_mmzhid7z77ue-4.start{counter-reset:lst-ctn-kix_mmzhid7z77ue-4 0}.lst-kix_mmzhid7z77ue-1>li:before{content:"" counter(lst-ctn-kix_mmzhid7z77ue-1,lower-latin) ". "}.lst-kix_mmzhid7z77ue-2>li:before{content:"" counter(lst-ctn-kix_mmzhid7z77ue-2,lower-roman) ". "}ul.lst-kix_j3ee6vgrps1y-6{list-style-type:none}ul.lst-kix_j3ee6vgrps1y-7{list-style-type:none}.lst-kix_j3ee6vgrps1y-0>li:before{content:"\0025cf   "}ul.lst-kix_j3ee6vgrps1y-8{list-style-type:none}ul.lst-kix_j3ee6vgrps1y-2{list-style-type:none}ul.lst-kix_j3ee6vgrps1y-3{list-style-type:none}ul.lst-kix_j3ee6vgrps1y-4{list-style-type:none}ul.lst-kix_j3ee6vgrps1y-5{list-style-type:none}.lst-kix_mmzhid7z77ue-4>li:before{content:"" counter(lst-ctn-kix_mmzhid7z77ue-4,lower-latin) ". "}.lst-kix_mmzhid7z77ue-5>li:before{content:"" counter(lst-ctn-kix_mmzhid7z77ue-5,lower-roman) ". "}.lst-kix_mmzhid7z77ue-6>li:before{content:"" counter(lst-ctn-kix_mmzhid7z77ue-6,decimal) ". "}.lst-kix_ycsqwkxglkdi-0>li:before{content:"\0025cf   "}.lst-kix_6ljzh1hbeadp-6>li:before{content:"\0025cf   "}.lst-kix_6ljzh1hbeadp-5>li:before{content:"\0025a0   "}.lst-kix_6ljzh1hbeadp-7>li:before{content:"\0025cb   "}.lst-kix_6ljzh1hbeadp-4>li:before{content:"\0025cb   "}.lst-kix_6ljzh1hbeadp-8>li:before{content:"\0025a0   "}.lst-kix_ycsqwkxglkdi-1>li:before{content:"\0025cb   "}ol.lst-kix_mmzhid7z77ue-5.start{counter-reset:lst-ctn-kix_mmzhid7z77ue-5 0}.lst-kix_ycsqwkxglkdi-2>li:before{content:"\0025a0   "}.lst-kix_ycsqwkxglkdi-3>li:before{content:"\0025cf   "}ul.lst-kix_j3ee6vgrps1y-0{list-style-type:none}ul.lst-kix_j3ee6vgrps1y-1{list-style-type:none}.lst-kix_ycsqwkxglkdi-4>li:before{content:"\0025cb   "}li.li-bullet-0:before{margin-left:-18pt;white-space:nowrap;display:inline-block;min-width:18pt}.lst-kix_mmzhid7z77ue-0>li:before{content:"" counter(lst-ctn-kix_mmzhid7z77ue-0,decimal) ". "}.lst-kix_ycsqwkxglkdi-6>li:before{content:"\0025cf   "}.lst-kix_ycsqwkxglkdi-7>li:before{content:"\0025cb   "}.lst-kix_ycsqwkxglkdi-5>li:before{content:"\0025a0   "}.lst-kix_mmzhid7z77ue-8>li{counter-increment:lst-ctn-kix_mmzhid7z77ue-8}.lst-kix_ycsqwkxglkdi-8>li:before{content:"\0025a0   "}ol{margin:0;padding:0}table td,table th{padding:0}.c5{border-right-style:solid;padding:5pt 5pt 5pt 5pt;border-bottom-color:#000000;border-top-width:1pt;border-right-width:1pt;border-left-color:#000000;vertical-align:top;border-right-color:#000000;border-left-width:1pt;border-top-style:solid;border-left-style:solid;border-bottom-width:1pt;width:75pt;border-top-color:#000000;border-bottom-style:solid}.c10{border-right-style:solid;padding:5pt 5pt 5pt 5pt;border-bottom-color:#000000;border-top-width:1pt;border-right-width:1pt;border-left-color:#000000;vertical-align:top;border-right-color:#000000;border-left-width:1pt;border-top-style:solid;border-left-style:solid;border-bottom-width:1pt;width:90pt;border-top-color:#000000;border-bottom-style:solid}.c1{border-right-style:solid;padding:5pt 5pt 5pt 5pt;border-bottom-color:#000000;border-top-width:1pt;border-right-width:1pt;border-left-color:#000000;vertical-align:top;border-right-color:#000000;border-left-width:1pt;border-top-style:solid;border-left-style:solid;border-bottom-width:1pt;width:81pt;border-top-color:#000000;border-bottom-style:solid}.c12{border-right-style:solid;padding:5pt 5pt 5pt 5pt;border-bottom-color:#000000;border-top-width:1pt;border-right-width:1pt;border-left-color:#000000;vertical-align:top;border-right-color:#000000;border-left-width:1pt;border-top-style:solid;border-left-style:solid;border-bottom-width:1pt;width:116.2pt;border-top-color:#000000;border-bottom-style:solid}.c0{border-right-style:solid;padding:5pt 5pt 5pt 5pt;border-bottom-color:#000000;border-top-width:1pt;border-right-width:1pt;border-left-color:#000000;vertical-align:top;border-right-color:#000000;border-left-width:1pt;border-top-style:solid;border-left-style:solid;border-bottom-width:1pt;width:105.8pt;border-top-color:#000000;border-bottom-style:solid}.c27{border-right-style:solid;padding:5pt 5pt 5pt 5pt;border-bottom-color:#000000;border-top-width:1pt;border-right-width:1pt;border-left-color:#000000;vertical-align:top;border-right-color:#000000;border-left-width:1pt;border-top-style:solid;border-left-style:solid;border-bottom-width:1pt;width:468pt;border-top-color:#000000;border-bottom-style:solid}.c18{margin-left:-11pt;padding-top:15pt;padding-bottom:0pt;line-height:1.15;page-break-after:avoid;orphans:2;widows:2;text-align:left;margin-right:-11pt}.c17{margin-left:-11pt;padding-top:15pt;padding-bottom:6pt;line-height:1.15;page-break-after:avoid;orphans:2;widows:2;text-align:left;margin-right:-11pt}.c19{margin-left:-11pt;padding-top:0pt;padding-bottom:8pt;line-height:1.15;orphans:2;widows:2;text-align:left;margin-right:-11pt}.c13{color:#000000;font-weight:700;text-decoration:none;vertical-align:baseline;font-size:11pt;font-family:"Average";font-style:normal}.c25{color:#5a5a5a;font-weight:700;text-decoration:none;vertical-align:baseline;font-size:27pt;font-family:"Arial";font-style:normal}.c11{-webkit-text-decoration-skip:none;color:#1155cc;font-weight:400;text-decoration:underline;text-decoration-skip-ink:none;font-family:"Average";font-style:italic}.c8{color:#000000;font-weight:400;text-decoration:none;vertical-align:baseline;font-size:11pt;font-family:"Arial";font-style:normal}.c24{color:#000000;font-weight:400;text-decoration:none;vertical-align:baseline;font-size:16pt;font-family:"Arial";font-style:normal}.c30{padding-top:20pt;padding-bottom:6pt;line-height:1.15;page-break-after:avoid;orphans:2;widows:2;text-align:left}.c14{color:#5a5a5a;font-weight:400;text-decoration:none;vertical-align:baseline;font-size:11pt;font-family:"Arial";font-style:normal}.c7{color:#000000;font-weight:400;text-decoration:none;vertical-align:baseline;font-size:11pt;font-family:"Average";font-style:italic}.c2{color:#000000;font-weight:400;text-decoration:none;vertical-align:baseline;font-size:11pt;font-family:"Average";font-style:normal}.c21{padding-top:0pt;padding-bottom:10pt;line-height:1.15;orphans:2;widows:2;text-align:left}.c16{padding-top:0pt;padding-bottom:0pt;line-height:1.15;orphans:2;widows:2;text-align:left}.c22{text-decoration-skip-ink:none;-webkit-text-decoration-skip:none;color:#1155cc;text-decoration:underline}.c4{padding-top:0pt;padding-bottom:0pt;line-height:1.0;text-align:left}.c23{border-spacing:0;border-collapse:collapse;margin-right:auto}.c31{background-color:#ffffff;max-width:468pt;padding:72pt 72pt 72pt 72pt}.c28{font-family:"Average";font-style:italic;font-weight:400}.c9{color:inherit;text-decoration:inherit}.c20{margin-left:36pt;padding-left:0pt}.c29{padding:0;margin:0}.c6{height:21pt}.c26{color:#5a5a5a}.c3{height:0pt}.c15{height:11pt}.title{padding-top:0pt;color:#000000;font-size:26pt;padding-bottom:3pt;font-family:"Arial";line-height:1.15;page-break-after:avoid;orphans:2;widows:2;text-align:left}.subtitle{padding-top:0pt;color:#666666;font-size:15pt;padding-bottom:16pt;font-family:"Arial";line-height:1.15;page-break-after:avoid;orphans:2;widows:2;text-align:left}li{color:#000000;font-size:11pt;font-family:"Arial"}p{margin:0;color:#000000;font-size:11pt;font-family:"Arial"}h1{padding-top:20pt;color:#000000;font-size:20pt;padding-bottom:6pt;font-family:"Arial";line-height:1.15;page-break-after:avoid;orphans:2;widows:2;text-align:left}h2{padding-top:18pt;color:#000000;font-size:16pt;padding-bottom:6pt;font-family:"Arial";line-height:1.15;page-break-after:avoid;orphans:2;widows:2;text-align:left}h3{padding-top:16pt;color:#434343;font-size:14pt;padding-bottom:4pt;font-family:"Arial";line-height:1.15;page-break-after:avoid;orphans:2;widows:2;text-align:left}h4{padding-top:14pt;color:#666666;font-size:12pt;padding-bottom:4pt;font-family:"Arial";line-height:1.15;page-break-after:avoid;orphans:2;widows:2;text-align:left}h5{padding-top:12pt;color:#666666;font-size:11pt;padding-bottom:4pt;font-family:"Arial";line-height:1.15;page-break-after:avoid;orphans:2;widows:2;text-align:left}h6{padding-top:12pt;color:#666666;font-size:11pt;padding-bottom:4pt;font-family:"Arial";line-height:1.15;page-break-after:avoid;font-style:italic;orphans:2;widows:2;text-align:left}</style></head><body class="c31 doc-content"><h1 class="c18" id="h.jl6rd243xrf0"><span class="c25">ESM-DECK trials protocol</span></h1><h2 class="c17" id="h.k1qmily3qwgs"><span class="c24">Emission data</span></h2><p class="c19"><span>CO2 </span><span class="c22"><a class="c9" href="https://www.google.com/url?q=https://benmsanderson.github.io/esm-deck/flat10.csv&amp;sa=D&amp;source=editors&amp;ust=1695335298974806&amp;usg=AOvVaw0j2kMXglNHqe_RYUTAqdx8">emissions data</a></span><span class="c14">&nbsp;for flat10</span></p><p class="c19"><span class="c26">CO2 </span><span class="c22"><a class="c9" href="https://www.google.com/url?q=https://benmsanderson.github.io/esm-deck/flat10_zec.csv&amp;sa=D&amp;source=editors&amp;ust=1695335298975403&amp;usg=AOvVaw00gCkQDgJfhurnzH5n-0_5">emissions data</a></span><span class="c14">&nbsp;for flat10_zec</span></p><p class="c19"><span class="c26">CO2 </span><span class="c22"><a class="c9" href="https://www.google.com/url?q=https://benmsanderson.github.io/esm-deck/flat10_cdr.csv&amp;sa=D&amp;source=editors&amp;ust=1695335298975933&amp;usg=AOvVaw0DSmiAyRY6qmLida7ZXZS-">emissions data</a></span><span class="c14">&nbsp;for flat10_cdr</span></p><p class="c19"><span class="c22"><a class="c9" href="https://www.google.com/url?q=https://benmsanderson.github.io/esm-deck/flat10_protocol.pdf&amp;sa=D&amp;source=editors&amp;ust=1695335298976395&amp;usg=AOvVaw2EJeVkVNPrC5nAMKTl4F6j">Full Protocol explainer</a></span></p><p class="c16 c15"><span class="c8"></span></p><ul class="c29 lst-kix_kae3z32vkf8l-0 start"><li class="c21 c20 li-bullet-0"><span class="c8">We request a set of 3 emissions-driven experiments to assess TCRE, ZEC and climate reversibility under an idealized net zero transition</span></li><li class="c20 c21 li-bullet-0"><span>All experiments branch from the DECK experiment </span><span class="c22"><a class="c9" href="https://www.google.com/url?q=https://view.es-doc.org/?renderMethod%3Dname%26project%3Dcmip6%26type%3Dcim.2.designing.NumericalExperiment%26client%3Desdoc-url-rewrite%26name%3Desm-picontrol&amp;sa=D&amp;source=editors&amp;ust=1695335298977041&amp;usg=AOvVaw2WZ2Bi6BRD2zPnGrk9AiLx">esm-picontrol</a></span><span class="c8">, with an identical data request.</span></li><li class="c21 c20 li-bullet-0"><span class="c8">Experiments will be proposed as candidates for the CMIP7 ESM-DECK</span></li><li class="c21 c20 li-bullet-0"><span class="c8">If not included in the DECK, experiments will be proposed as part of a CMIP7 C4MIP/ZECMIP/CDRMIP effort</span></li><li class="c21 c20 li-bullet-0"><span>In any case, participating model groups will be offered co-authorship on a manuscript documenting the experiments</span></li></ul><h2 class="c17" id="h.da5bwvdg9n1h"><span class="c24">Experiment tiers</span></h2><p class="c15 c16"><span class="c2"></span></p><a id="t.2f5a14496665d0a9d300b917853a973db92ce413"></a><a id="t.0"></a><table class="c23"><tr class="c3"><td class="c10" colspan="1" rowspan="1"><p class="c4"><span class="c7">Experiment</span></p></td><td class="c5" colspan="1" rowspan="1"><p class="c4"><span class="c7">Branches from</span></p></td><td class="c1" colspan="1" rowspan="1"><p class="c4"><span class="c7">Years</span></p></td><td class="c12" colspan="1" rowspan="1"><p class="c4"><span class="c7">emissions</span></p></td><td class="c0" colspan="1" rowspan="1"><p class="c4"><span class="c7">Metrics</span></p></td></tr><tr class="c6"><td class="c27" colspan="5" rowspan="1"><p class="c4"><span class="c13">Tier 1 (high priority) experiments</span></p></td></tr><tr class="c3"><td class="c10" colspan="1" rowspan="1"><p class="c4"><span class="c2">esm-flat10</span></p></td><td class="c5" colspan="1" rowspan="1"><p class="c4"><span class="c2">esm-pictrl</span></p></td><td class="c1" colspan="1" rowspan="1"><p class="c4"><span class="c2">150 years (From year 0 to year 150)</span></p></td><td class="c12" colspan="1" rowspan="1"><p class="c4"><span class="c2">10GtC/year constant emissions, globally homogenous flux</span></p></td><td class="c0" colspan="1" rowspan="1"><p class="c4"><span class="c2">TCRE</span></p></td></tr><tr class="c3"><td class="c10" colspan="1" rowspan="1"><p class="c4"><span class="c2">esm-flat10_zec</span></p></td><td class="c5" colspan="1" rowspan="1"><p class="c4"><span class="c2">esm-flat10 (branch year 100)</span></p></td><td class="c1" colspan="1" rowspan="1"><p class="c4"><span class="c2">220 years (From year 100 to year 320)</span></p></td><td class="c12" colspan="1" rowspan="1"><p class="c4"><span class="c2">0 GtC/yr constant</span></p></td><td class="c0" colspan="1" rowspan="1"><p class="c4"><span class="c2">ZEC50</span></p><p class="c4"><span class="c2">ZEC100</span></p><p class="c4"><span class="c2">ZEC200</span></p></td></tr><tr class="c6"><td class="c27" colspan="5" rowspan="1"><p class="c4"><span class="c13">Tier 2 (lower priority) experiments</span></p></td></tr><tr class="c3"><td class="c10" colspan="1" rowspan="1"><p class="c4"><span class="c2">esm-flat10_cdr</span></p></td><td class="c5" colspan="1" rowspan="1"><p class="c4"><span class="c2">esm-flat10 (branch year 100)</span></p></td><td class="c1" colspan="1" rowspan="1"><p class="c4"><span class="c2">220 years (From year 100 to year 320)</span></p></td><td class="c12" colspan="1" rowspan="1"><ul class="c29 lst-kix_o4ducqhc1uk8-0 start"><li class="c4 c20 li-bullet-0"><span class="c2">Linearly declining emissions by 2GtC/decade from 10GtC/yr (year 100) to -10GtC/Yr (year 200)</span></li><li class="c4 c20 li-bullet-0"><span class="c2">Constant -10GtC/yr (years 200-300)</span></li><li class="c4 c20 li-bullet-0"><span class="c2">Zero emissions for year 300+ (optional)</span></li></ul></td><td class="c0" colspan="1" rowspan="1"><p class="c4"><span class="c2">TNZ, TR1000,TR0 (see last section)</span></p></td></tr></table><p class="c16 c15"><span class="c8"></span></p><h1 class="c30" id="h.c2aa85tgr8m5"><span style="overflow: hidden; display: inline-block; margin: 0.00px 0.00px; border: 0.00px solid #000000; transform: rotate(0.00rad) translateZ(0px); -webkit-transform: rotate(0.00rad) translateZ(0px); width: 624.00px; height: 368.00px;"><img alt="" src="images/image1.png" style="width: 624.00px; height: 368.00px; margin-left: 0.00px; margin-top: 0.00px; transform: rotate(0.00rad) translateZ(0px); -webkit-transform: rotate(0.00rad) translateZ(0px);" title=""></span></h1><p class="c16"><span class="c28">Figure 1: emissions, cumulative emissions, CO2 concentrations and Global Mean temperatures in the 4 proposed experiments (flat10, flat10_zec and flat10_cdr) as simulated in a perturbed ensemble of the simple climate model </span><span class="c11"><a class="c9" href="https://www.google.com/url?q=https://github.com/OMS-NetZero/FAIR&amp;sa=D&amp;source=editors&amp;ust=1695335298987924&amp;usg=AOvVaw3IFPcz86TwdUQ_U0m46fKI">FaIR</a></span><span class="c28">. &nbsp;Tier 1 experiments have solid lines, while tier 2 experiments are dotted.</span></p></body></html>
